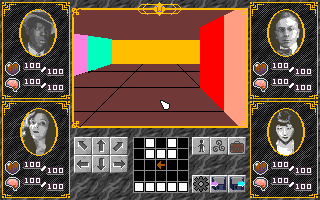
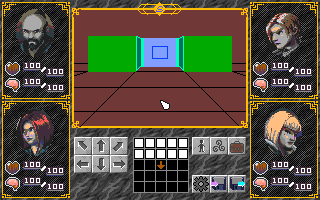
Attribution Updates
Also swapped out the character portraits for something more "fantasy"

diff --git a/src/MazeUI.cpp b/src/MazeUI.cpp
@@ -88,7 +88,7 @@ void MazeUI::DrawCharacterWindow(Character *characterObj, int xOffset, int yOffs
         DrawCharacterWindowBorder(xOffset, yOffset, CHARWIN_HEIGHT, CHARWIN_WIDTH);
 
         //Character Portrait
-        masked_blit(PORTSHEET, BUFFER, characterObj->Portrait * PORT_WIDTH, 0, xOffset + 12, yOffset + 7, PORT_WIDTH, PORT_HEIGHT);
+        masked_blit(PORTSHEET, BUFFER, characterObj->Portrait * PORT_WIDTH, 0, xOffset + 14, yOffset + 7, PORT_WIDTH, PORT_HEIGHT);
 
         //Draw the forward slash
         line(BUFFER, xOffset + 39, yOffset + 68, xOffset + 42, yOffset + 65, makecol(255, 255, 255));

diff --git a/include/GameUIDefines.h b/include/GameUIDefines.h
@@ -47,7 +47,7 @@
 #define CHAR_MIND_WIDTH 15
 #define CHAR_MIND_HEIGHT 14
 
-#define PORT_WIDTH 48
+#define PORT_WIDTH 38
 #define PORT_HEIGHT 48
 
 #define DIGIT_STARTX 0

diff --git a/README.md b/README.md
@@ -37,9 +37,42 @@ Install VSCode, and the [DOS-Dev](https://marketplace.visualstudio.com/items?ite
 
 - Navigation Icons by [DENZI](http://www3.wind.ne.jp/DENZI/diary/)  (CC-BY-SA)
 - Other UI Icons by Bernard Walker, based upon original work by [DENZI](http://www3.wind.ne.jp/DENZI/diary/)  (CC-BY-SA)
-- Character Portraits are sourced from the public domain. (CC0)
 - Heart Icon by [ED/EM](https://edslashem.itch.io/rpg-pixel-art-assets-1) ("Free", no license information provided)
 - Heath/Sanity Font by [ED/EM](https://edslashem.itch.io/rpg-pixel-art-assets-1) ("Free", no license information provided)
 - Brain Icon by Bernard Walker.  (CC0)
 - Maze and Character Window Borders by [PIPOSCHPATZ](https://piposchpatz.itch.io/ui-borders-art-deco-pixel-art) (CC-BY-4.0)
 - Background Texture by [Jestan](https://opengameart.org/content/pixel-texture-pack) (CC-BY-SA)
+- Character Portraits by Corwin ZX (https://corwin-zx.itch.io/pixelart-rpg-character-portraits) CC-BY-SA
+
+## Music Attribution
+
+ACCION.MID - "Acción" by djsaryon
+Source: https://opengameart.org/content/battle-midi
+Copywrite:  CC-BY-SA
+
+WALTZ.MID - "Waltz of the Ghosts" by Aureolus_Omicron
+Source: https://opengameart.org/content/waltz-of-the-ghosts
+Copywrite:  CC-BY-SA
+
+
+The following MIDI files were sourced from "The Ultimate MIDI Pack" (https://opengameart.org/content/ultimate-midi-pack).  All are CC-BY-SA.
+
+WICKED.MID - "Let the Wicked Be No More" by Lippeth
+Bandcamp: https://nathanmaxx.bandcamp.com
+YouTube: https://www.youtube.com/channel/UCF2k6P_IGQU36aZrtLYsoyQ
+Copywrite:  CC-BY-SA
+
+HALLS.MID - "Halls of Wandering Spirits" by Myrgharok
+LAVA.MID - "On a Sea of Lava" by Myrgharok
+ETERNAL.MID - "On a Sea of Lava" by Myrgharok
+No Contact Information
+Copywrite:  CC-BY-SA
+
+TROUBLE.MID - "Trouble in Sight" by Bloo
+Bandcamp: https://bloowuzhere.bandcamp.com/
+Copywrite:  CC-BY-SA
+
+SORROW.MID - "World of No Sorrow" by TrialD
+YouTube: https://www.youtube.com/channel/UC5WpeUu5yVRYnKHGmqeyp3g
+Twitter: https://twitter.com/triald1
+Copywrite:  CC-BY-SA
